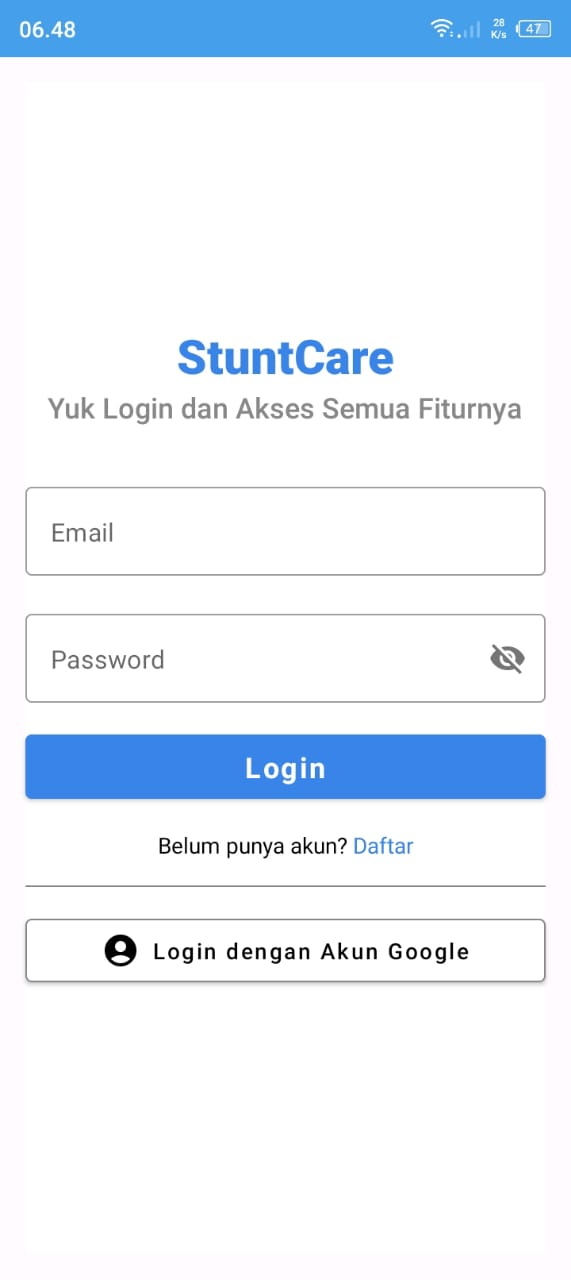
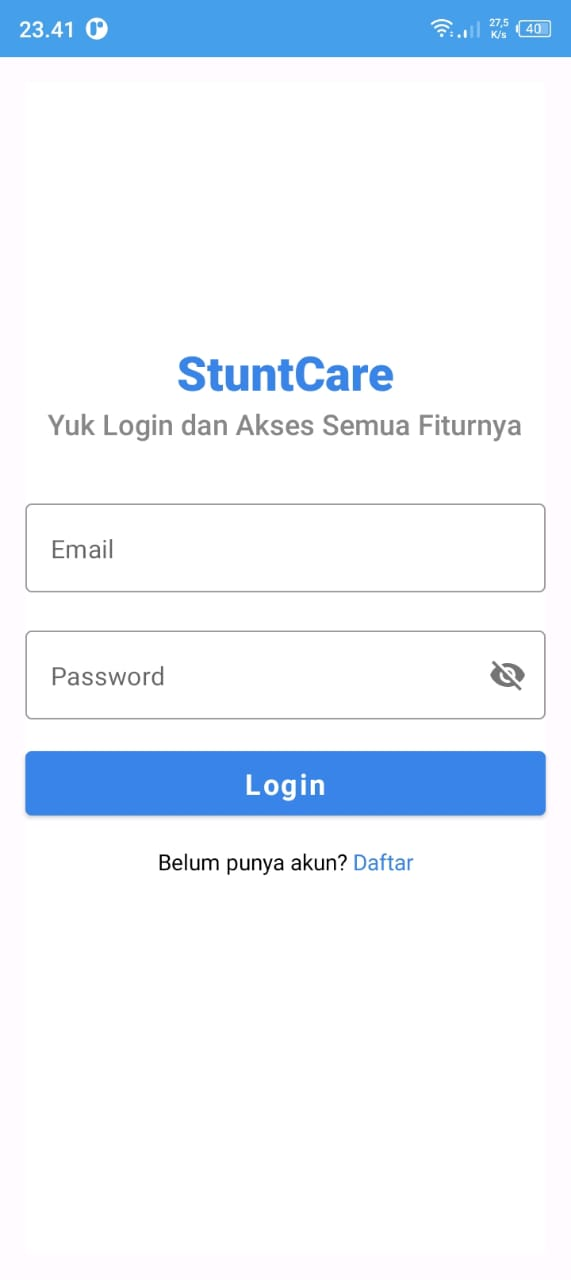
change layouts

diff --git a/app/src/main/java/com/febiarifin/stuntcare/ui/screen/auth/login/LoginScreen.kt b/app/src/main/java/com/febiarifin/stuntcare/ui/screen/auth/login/LoginScreen.kt
@@ -193,29 +193,29 @@ fun LoginScreen(
             )
         )
         Spacer(modifier = Modifier.height(16.dp))
-        Divider(color = Color.Gray, thickness = 1.dp)
-        Spacer(modifier = Modifier.height(16.dp))
-
-        Button(
-            onClick = {
-
-            },
-            modifier = Modifier.fillMaxWidth(),
-            colors = ButtonDefaults.buttonColors(backgroundColor = Color.White),
-            shape = MaterialTheme.shapes.medium,
-            border = BorderStroke(1.dp, Color.Gray.copy(alpha = 0.2f))
-        ) {
-            Row(verticalAlignment = Alignment.CenterVertically) {
-                Image(
-                    painter = painterResource(id = R.drawable.google),
-                    contentDescription = "Akun Google",
-                    modifier = Modifier
-                        .padding(end = 8.dp)
-                        .size(20.dp)
-                )
-                Text("Login dengan Akun Google")
-            }
-        }
+//        Divider(color = Color.Gray, thickness = 1.dp)
+//        Spacer(modifier = Modifier.height(16.dp))
+//
+//        Button(
+//            onClick = {
+//
+//            },
+//            modifier = Modifier.fillMaxWidth(),
+//            colors = ButtonDefaults.buttonColors(backgroundColor = Color.White),
+//            shape = MaterialTheme.shapes.medium,
+//            border = BorderStroke(1.dp, Color.Gray.copy(alpha = 0.2f))
+//        ) {
+//            Row(verticalAlignment = Alignment.CenterVertically) {
+//                Image(
+//                    painter = painterResource(id = R.drawable.google),
+//                    contentDescription = "Akun Google",
+//                    modifier = Modifier
+//                        .padding(end = 8.dp)
+//                        .size(20.dp)
+//                )
+//                Text("Login dengan Akun Google")
+//            }
+//        }
         Spacer(modifier = Modifier.height(20.dp))
 
         if (showErrorEmail) {
@@ -258,7 +258,6 @@ fun LoginScreenPreview() {
         LoginScreen(
             navigateToRegister = {},
             navigateToHomeScreen = {},
-
             )
     }
 }

diff --git a/app/src/main/java/com/febiarifin/stuntcare/ui/screen/auth/register/RegisterScreen.kt b/app/src/main/java/com/febiarifin/stuntcare/ui/screen/auth/register/RegisterScreen.kt
@@ -216,29 +216,29 @@ fun RegisterScreen(
             )
         )
         Spacer(modifier = Modifier.height(16.dp))
-        Divider(color = Color.Gray, thickness = 1.dp)
-        Spacer(modifier = Modifier.height(16.dp))
-
-        Button(
-            onClick = {
-
-            },
-            modifier = Modifier.fillMaxWidth(),
-            colors = ButtonDefaults.buttonColors(backgroundColor = Color.White),
-            shape = MaterialTheme.shapes.medium,
-            border = BorderStroke(1.dp, Color.Gray.copy(alpha = 0.2f))
-        ) {
-            Row(verticalAlignment = Alignment.CenterVertically) {
-                Image(
-                    painter = painterResource(id = R.drawable.google),
-                    contentDescription = "Akun Google",
-                    modifier = Modifier
-                        .padding(end = 8.dp)
-                        .size(20.dp)
-                )
-                Text("Daftar dengan Akun Google")
-            }
-        }
+//        Divider(color = Color.Gray, thickness = 1.dp)
+//        Spacer(modifier = Modifier.height(16.dp))
+//
+//        Button(
+//            onClick = {
+//
+//            },
+//            modifier = Modifier.fillMaxWidth(),
+//            colors = ButtonDefaults.buttonColors(backgroundColor = Color.White),
+//            shape = MaterialTheme.shapes.medium,
+//            border = BorderStroke(1.dp, Color.Gray.copy(alpha = 0.2f))
+//        ) {
+//            Row(verticalAlignment = Alignment.CenterVertically) {
+//                Image(
+//                    painter = painterResource(id = R.drawable.google),
+//                    contentDescription = "Akun Google",
+//                    modifier = Modifier
+//                        .padding(end = 8.dp)
+//                        .size(20.dp)
+//                )
+//                Text("Daftar dengan Akun Google")
+//            }
+//        }
         Spacer(modifier = Modifier.height(20.dp))
 
         if (showErrorEmpty) {

diff --git a/app/src/main/java/com/febiarifin/stuntcare/ui/screen/check/CheckScreen.kt b/app/src/main/java/com/febiarifin/stuntcare/ui/screen/check/CheckScreen.kt
@@ -99,9 +99,7 @@ fun CheckScreen(
             navigateToDetailCheck = navigateToDetailCheck,
             navigateToFormCheck = navigateToFormCheck,
         )
-        if (state.data == null) {
-            ShowProgressBar(state = true, isFillMaxSize = true)
-        }
+        ShowProgressBar(state = state.loading, isFillMaxSize = true)
     }
 }
 
